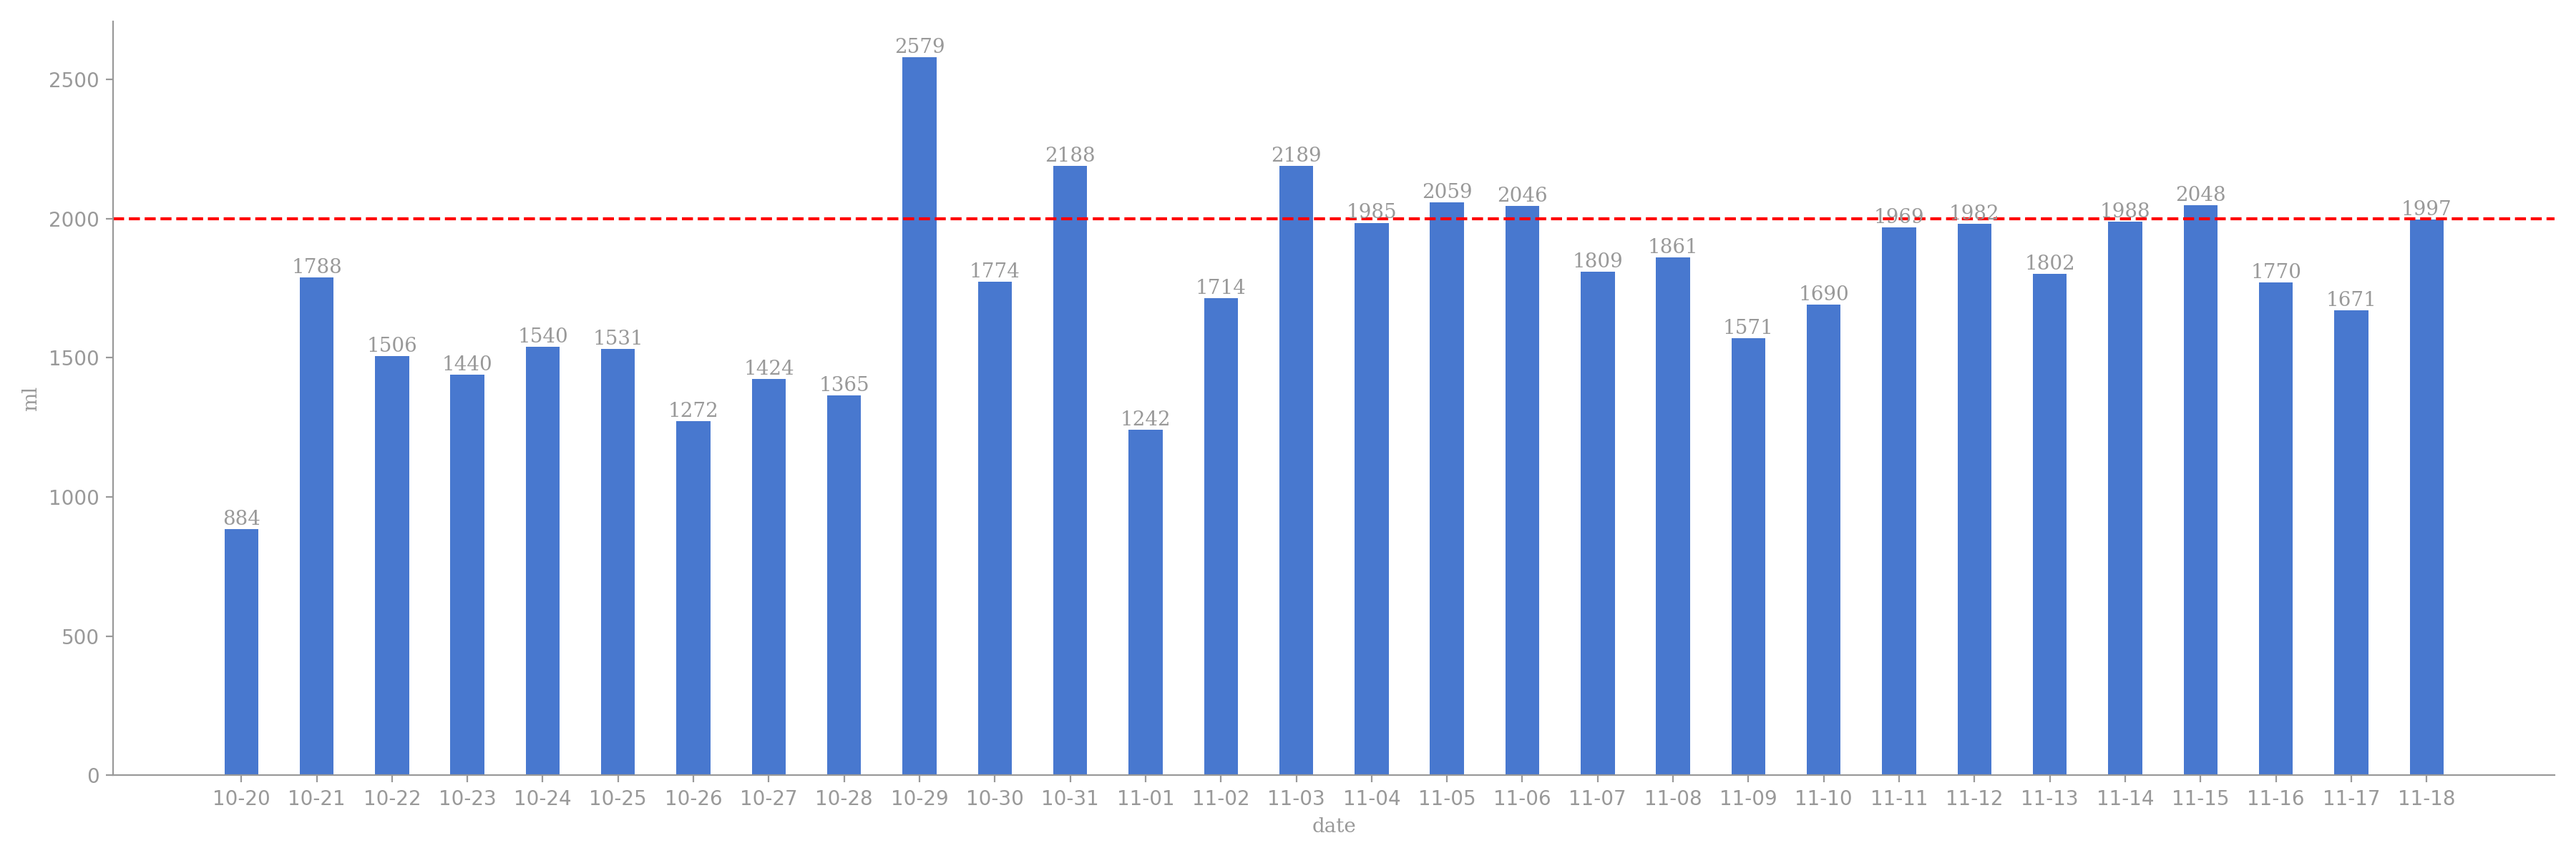
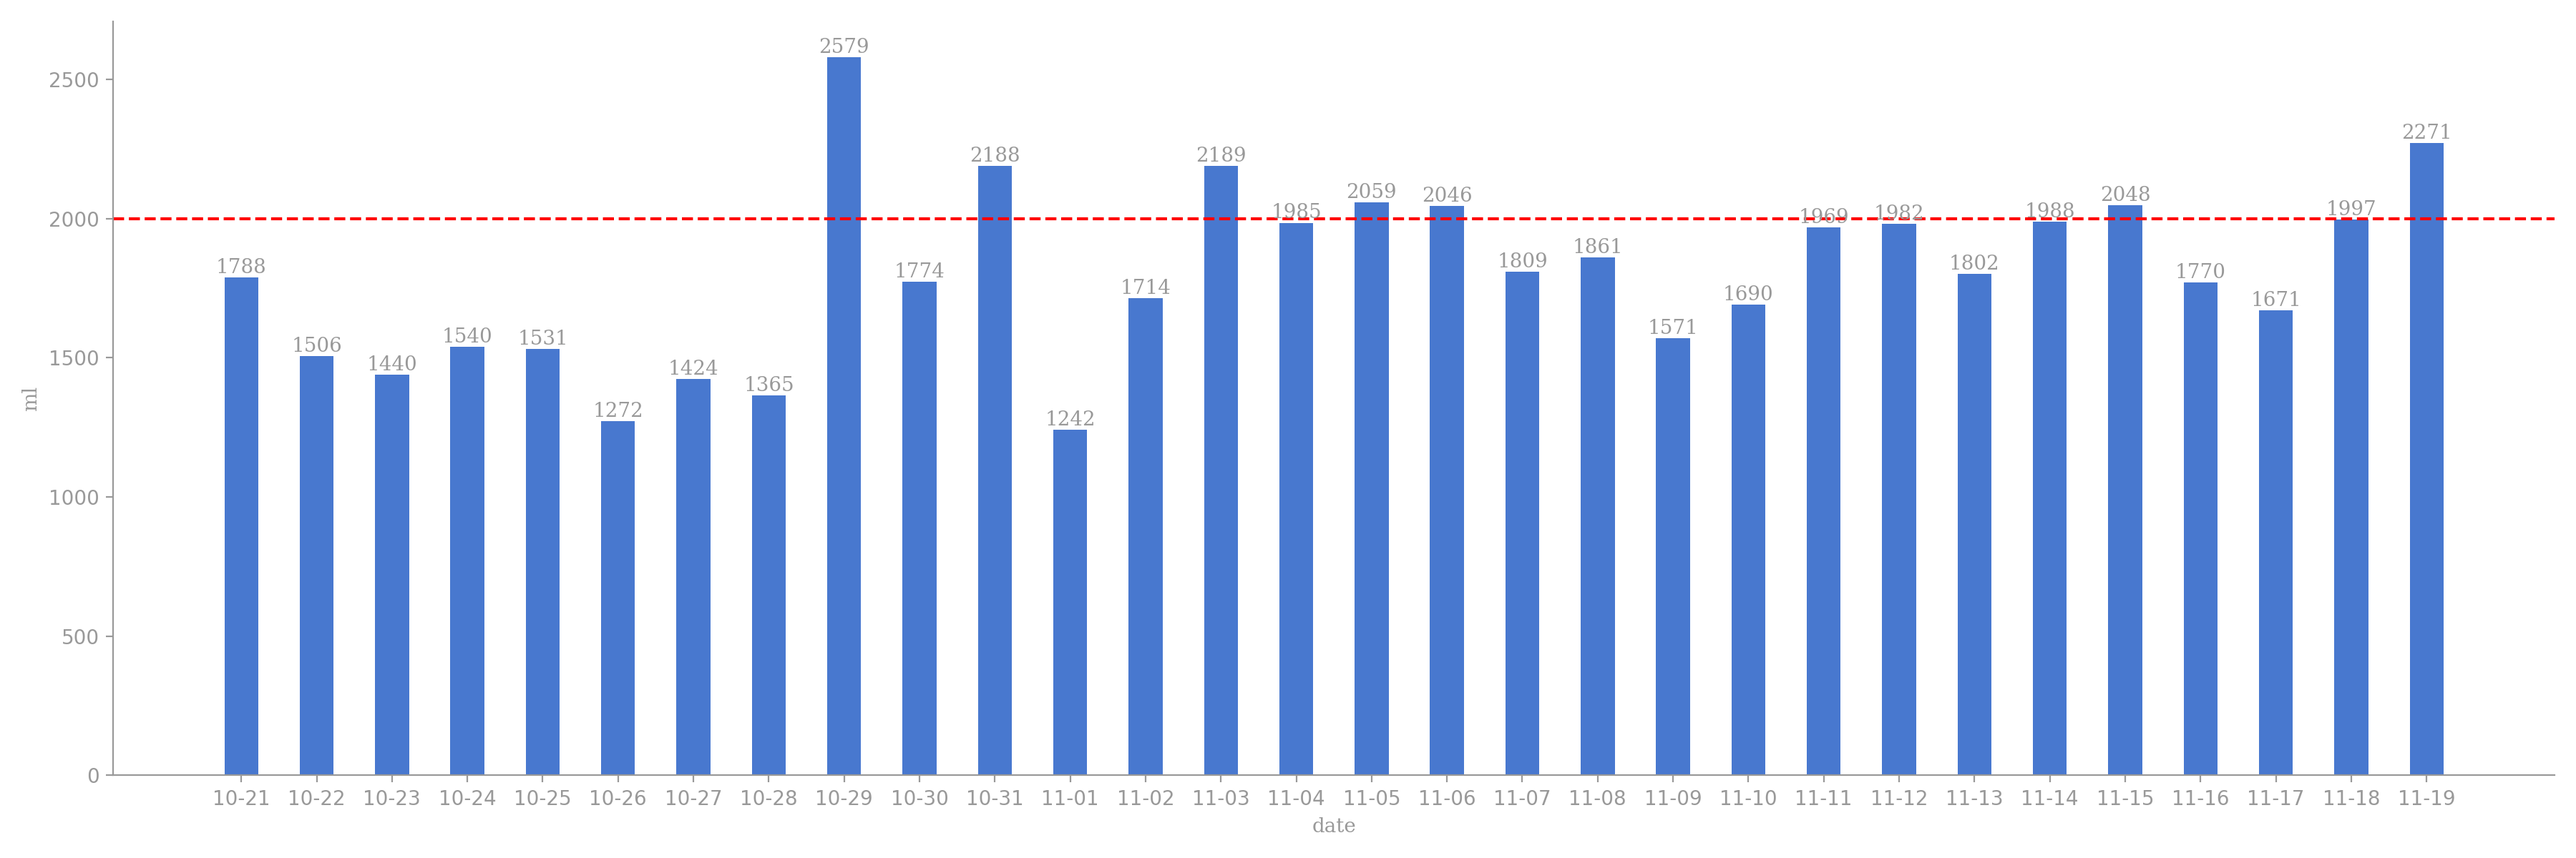
crontab auto git

Changed region(s): [[0.0622, 0.0308, 0.9644, 0.6167]]

diff --git a/README.md b/README.md
@@ -1,17 +1,3 @@
-# 今日饮水数据
-
-<div align=center>
-<img src="today.png" style="zoom: 100%;" />
-
-| 今日总饮水量 | 每小时平均饮水量 |
-| :----: | :----: |
-| 2271 | 162 |
-</div>
-
-| 日期 | 00:38:36 | 01:35:45 | 03:33:25 | 04:33:59 | 06:02:13 | 07:32:52 | 08:19:26 | 09:10:13 | 16:37:59 | 19:11:45 | 20:11:08 | 20:37:31 | 21:28:59 | 22:39:59 | 23:37:30 |
-| :----: | :----: | :----: | :----: | :----: | :----: | :----: | :----: | :----: | :----: | :----: | :----: | :----: | :----: | :----: | :----: |
-| 2025-11-19 | 213 | 86 | 88 | 236 | 250 | 202 | 82 | 77 | 118 | 86 | 33 | 217 | 106 | 400 | 77 |
-
 # 近30日饮水数据
 
 <div align=center>
@@ -19,8 +5,12 @@
 
 | 总饮水量 | 日均饮水量 |
 | :----: | :----: |
-| 52684 | 1756 |
+| 54071 | 1802 |
 </div>
+
+| 日期 | all | 00:38:36 | 01:35:45 | 03:33:25 | 04:33:59 | 06:02:13 | 07:32:52 | 08:19:26 | 09:10:13 | 16:37:59 | 19:11:45 | 20:11:08 | 20:37:31 | 21:28:59 | 22:39:59 | 23:37:30 |
+| :----: | :----: | :----: | :----: | :----: | :----: | :----: | :----: | :----: | :----: | :----: | :----: | :----: | :----: | :----: | :----: | :----: |
+| 2025-11-19 | 2271 | 213 | 86 | 88 | 236 | 250 | 202 | 82 | 77 | 118 | 86 | 33 | 217 | 106 | 400 | 77 |
 
 | 日期 | all | 00:41:25 | 01:34:50 | 03:40:50 | 04:38:37 | 05:57:22 | 07:11:30 | 07:18:09 | 07:51:11 | 08:18:47 | 09:07:33 | 14:23:28 | 16:38:46 | 17:47:03 | 18:34:14 | 19:35:02 | 20:18:31 | 20:32:10 | 21:06:33 | 21:25:41 | 22:42:13 |
 | :----: | :----: | :----: | :----: | :----: | :----: | :----: | :----: | :----: | :----: | :----: | :----: | :----: | :----: | :----: | :----: | :----: | :----: | :----: | :----: | :----: | :----: |
@@ -141,8 +131,4 @@
 | 日期 | all | 00:13:39 | 11:27:58 | 13:45:27 | 15:49:48 | 16:12:44 | 16:29:00 | 18:18:49 | 20:36:10 |
 | :----: | :----: | :----: | :----: | :----: | :----: | :----: | :----: | :----: | :----: |
 | 2025-10-20 | 884 | 88 | 101 | 300 | 21 | 76 | 44 | 86 | 168 |
-
-| 日期 | all | 00:48:55 | 07:48:48 | 08:06:21 | 10:16:18 | 10:51:48 | 12:14:43 | 13:19:58 | 15:02:34 | 16:32:39 | 16:54:39 | 17:10:08 | 17:56:21 | 18:56:55 | 22:09:22 | 22:45:09 |
-| :----: | :----: | :----: | :----: | :----: | :----: | :----: | :----: | :----: | :----: | :----: | :----: | :----: | :----: | :----: | :----: | :----: |
-| 2025-10-19 | 1675 | 77 | 32 | 201 | 86 | 34 | 200 | 62 | 196 | 102 | 56 | 63 | 82 | 82 | 300 | 102 |
 
